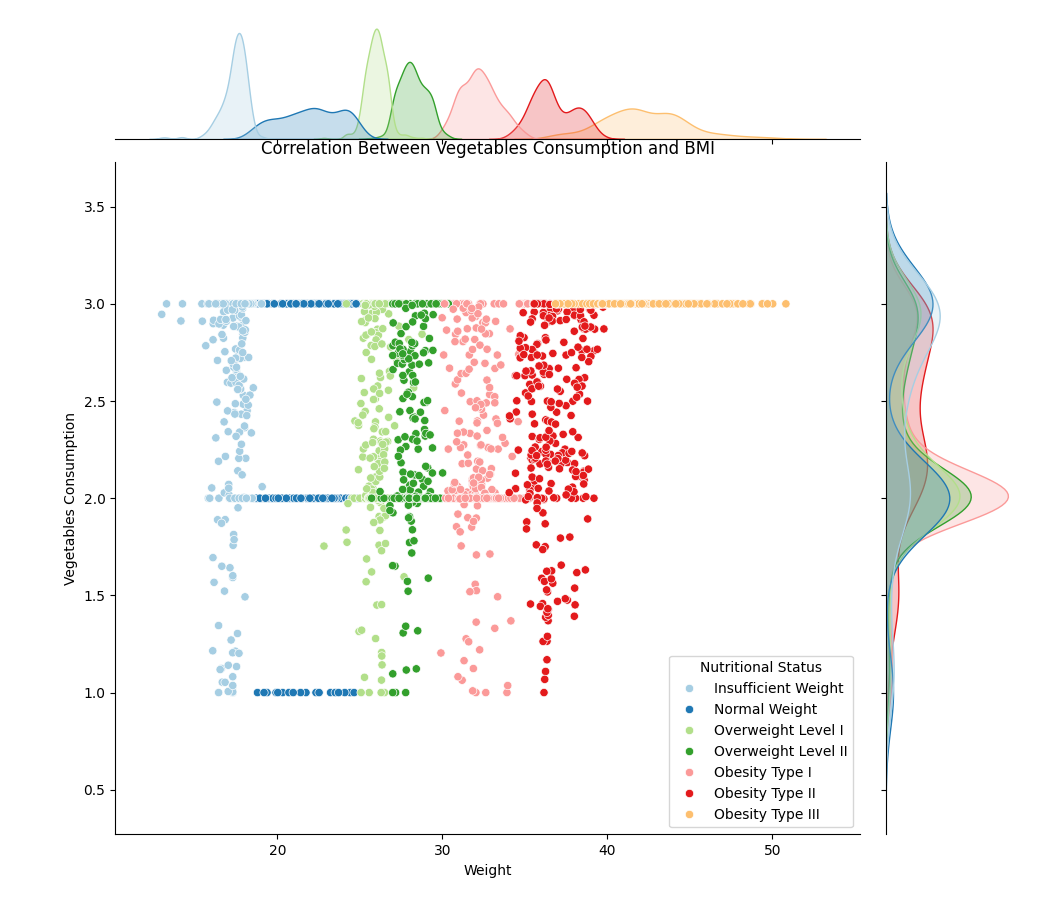
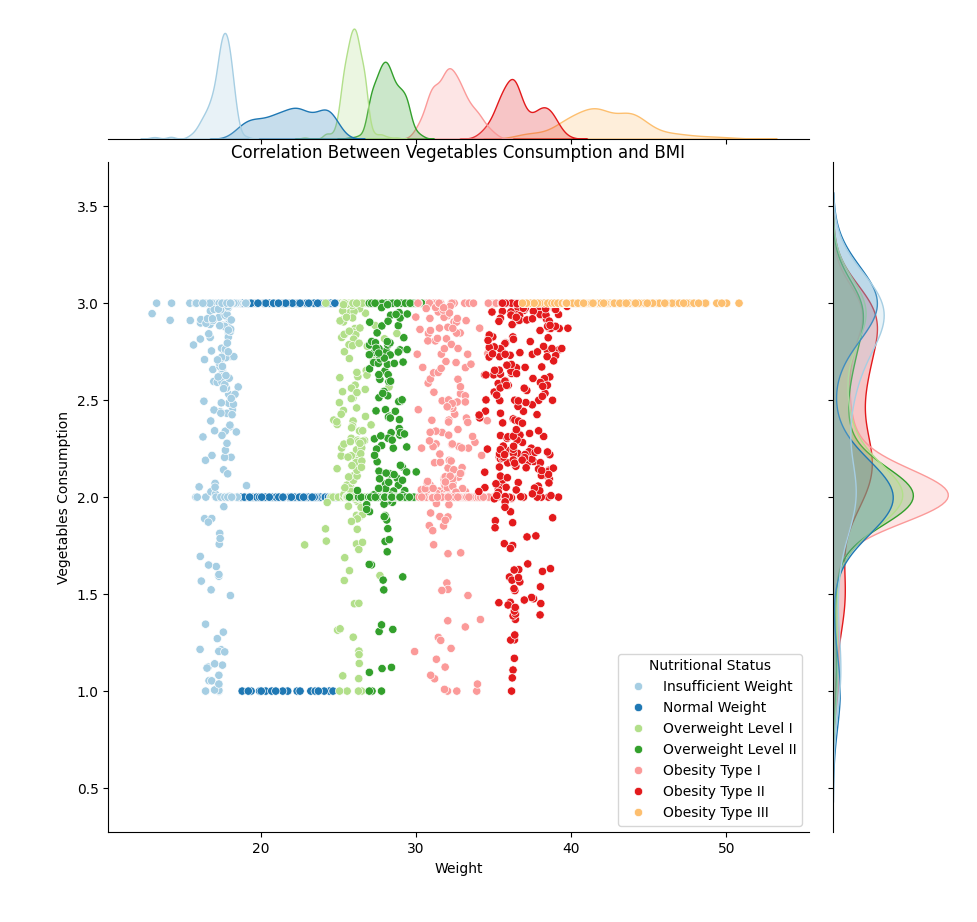
analisi descrittiva completa

diff --git a/analisi_descrittiva.py b/analisi_descrittiva.py
@@ -169,7 +169,7 @@ def strip_plot(df):
     plt.show()
 
 
-def car_plot(df):
+def cat_plot(df):
     df['Nutritional Status'] \
         = df['Nutritional Status'].replace('Insufficient_Weight', 'Insufficient Weight') \
         .replace('Normal_Weight', 'Normal Weight').replace('Overweight_Level_I', 'Overweight Level I') \
@@ -190,7 +190,7 @@ def joint_plot(df):
     colors = sns.color_palette('Paired')[0:7]
     sns.jointplot(data=columns, y="Vegetables Consumption", x="BMI", hue="Nutritional Status", hue_order=order,
                   palette=colors)
-    plt.title('Correlation Between Vegetables Consumption and BMI', loc='center', wrap=True)
+    plt.title('Correlation Between Vegetables Consumption and BMI', loc='center', wrap=True, pad=-20)
     plt.xlabel('Weight')
     plt.ylabel('Vegetables Consumption')
     plt.savefig('grafici/Join Plot.png', bbox_inches='tight')
@@ -223,56 +223,60 @@ def waffle_charts():
     }
 
     plt.figure(
+        figsize=(10, 10),
         FigureClass=Waffle,
         rows=10,
         plots={
             221: {
                 'values': list(df_calories.values()), # Convert actual number to a reasonable block number
-                'title': {'label': 'Percentage of people consuming' '\n' 'high caloric food', 'loc': 'left', 'fontsize': 10},
+                'title': {'label': 'Percentage of people consuming' '\n' 'high caloric food', 'loc': 'left',
+                          'fontsize': 15},
                 'legend': {
                     'labels': list(df_calories.keys()),
                     'loc': 'upper left',
                     'bbox_to_anchor': (1, 1)
                 },
-                'font_size': 16,
+                'font_size': 20,
             },
             222: {
                 'values': list(df_smoke.values()),
-                'title': {'label': 'Percentage of smokers', 'loc': 'left', 'fontsize': 10},
+                'title': {'label': 'Percentage of smokers', 'loc': 'left', 'fontsize': 15},
                 'legend': {
                     'labels': list(df_smoke.keys()),
                     'loc': 'upper left',
                     'bbox_to_anchor': (1, 1)
                 },
-                'font_size': 16,
-            },
+                'font_size': 20,
+    },
             223: {
                 'values': list(df_family.values()),
-                'title': {'label': 'Percentage of people having' '\n' 'family history of overweight', 'loc': 'left', 'fontsize': 10},
+                'title': {'label': 'Percentage of people having' '\n' 'family history of overweight', 'loc': 'left',
+                          'fontsize': 15},
                 'legend': {
                     'labels': list(df_family.keys()),
                     'loc': 'upper left',
                     'bbox_to_anchor': (1, 1)
                 },
-                'font_size': 16,
+                'font_size': 20,
             },
             224: {
                 'values': list(df_calories_monitoring.values()),
-                'title': {'label': 'Percentage of people monitoring' '\n' 'calories consumption', 'loc': 'left', 'fontsize': 10},
+                'title': {'label': 'Percentage of people monitoring' '\n' 'calories consumption', 'loc': 'left',
+                          'fontsize': 15},
                 'legend': {
                     'labels': list(df_family.keys()),
                     'loc': 'upper left',
                     'bbox_to_anchor': (1, 1)
                 },
-                'font_size': 16,
+                'font_size': 20,
             },
         },
 
         icon_legend=True,
-        font_size=16,
-
+        icons='child-reaching',
+        font_size=16
     )
-    plt.savefig('grafici/fig.png', bbox_inches='tight')
+    plt.savefig('grafici/waffle_chart1.png', bbox_inches='tight')
     plt.show()
 
     values = obesity['Alcohol Consumption'].value_counts()
@@ -316,59 +320,61 @@ def waffle_charts():
     }
 
     plt.figure(
+        figsize=(10, 10),
         FigureClass=Waffle,
         rows=10,
         plots={
             221: {
                 'values': list(df_alcohol.values()),  # Convert actual number to a reasonable block number
-                'title': {'label': 'Alcol Consumption' '\n' 'alchol', 'loc': 'left',
-                          'fontsize': 10},
+                'title': {'label': 'Alcohol consumption', 'loc': 'left',
+                          'fontsize': 15},
                 'legend': {
                     'labels': list(df_alcohol.keys()),
                     'loc': 'upper left',
                     'bbox_to_anchor': (1, 1),
                     'fontsize': 10
                 },
-                'font_size': 16,
+                'font_size': 20,
             },
             222: {
                 'values': list(df_food_bm.values()),
-                'title': {'label': 'Food consumption between meals', 'loc': 'left', 'fontsize': 10},
+                'title': {'label': 'Food consumption between meals', 'loc': 'left', 'fontsize': 15},
                 'legend': {
                     'labels': list(df_food_bm.keys()),
                     'loc': 'upper left',
                     'bbox_to_anchor': (1, 1)
                 },
-                'font_size': 16,
+                'font_size': 20,
             },
             223: {
                 'values': list(df_vegetables.values()),
                 'title': {'label': 'Vegetable consumption', 'loc': 'left',
-                          'fontsize': 10},
+                          'fontsize': 15},
                 'legend': {
                     'labels': list(df_vegetables.keys()),
                     'loc': 'upper left',
                     'bbox_to_anchor': (1, 1)
                 },
-                'font_size': 16,
+                'font_size': 20,
             },
             224: {
                 'values': list(df_transportation.values()),
                 'title': {'label': 'Transportation used', 'loc': 'left',
-                          'fontsize': 10},
+                          'fontsize': 15},
                 'legend': {
                     'labels': list(df_transportation.keys()),
                     'loc': 'upper left',
                     'bbox_to_anchor': (1, 1)
                 },
-                'font_size': 16,
+                'font_size': 20,
             },
         },
         icon_legend=True,
         font_size=16,
+        icons='child-reaching'
     )
 
-    plt.savefig('grafici/fig2.png', bbox_inches='tight')
+    plt.savefig('grafici/waffle_chart2.png', bbox_inches='tight')
     plt.show()
 
     values = obesity['Gender'].value_counts()
@@ -393,37 +399,39 @@ def waffle_charts():
     }
 
     plt.figure(
+        figsize=(10, 10),
         FigureClass=Waffle,
         rows=10,
         plots={
             121: {
                 'values': list(df_gender.values()),  # Convert actual number to a reasonable block number
                 'title': {'label': 'Gender', 'loc': 'left',
-                          'fontsize': 10},
+                          'fontsize': 15},
                 'legend': {
                     'labels': list(df_gender.keys()),
                     'loc': 'upper left',
                     'bbox_to_anchor': (1, 1),
-                    'fontsize': 10
+                    'fontsize': 15
                 },
-                'font_size': 16,
+                'font_size': 20,
             },
             122: {
                 'values': list(df_mainmeals.values()),
-                'title': {'label': 'Main meals number', 'loc': 'left', 'fontsize': 10},
+                'title': {'label': 'Main meals number', 'loc': 'left', 'fontsize': 15},
                 'legend': {
                     'labels': list(df_mainmeals.keys()),
                     'loc': 'upper left',
                     'bbox_to_anchor': (1, 1)
                 },
-                'font_size': 16,
+                'font_size': 20,
             },
         },
         icon_legend=True,
         font_size=16,
+        icons='child-reaching'
     )
 
-    plt.savefig('grafici/fig3.png', bbox_inches='tight')
+    plt.savefig('grafici/waffle_chart3.png', bbox_inches='tight')
     plt.show()
 
 
@@ -493,7 +501,7 @@ def histograms():
     plt.show()
 
 
-histograms()
+#histograms()
 # weight_height()
 # BMI()
 # violin_chart()
@@ -501,11 +509,11 @@ histograms()
 # plot_correlation_matrix(obesity_no_index)
 # strip_plot(obesity)
 # plot_scatterplot()
-# car_plot(obesity_replaced)
-# joint_plot(obesity_replaced)
+# cat_plot(obesity_replaced)
+#joint_plot(obesity_replaced)
 # waffle_chart("High Caloric Food Consumption")
 
 # waffle_chart("High Caloric Food Consumption")
 
 #distributed_dot_plot(obesity_replaced)
-waffle_charts()
+#waffle_charts()
